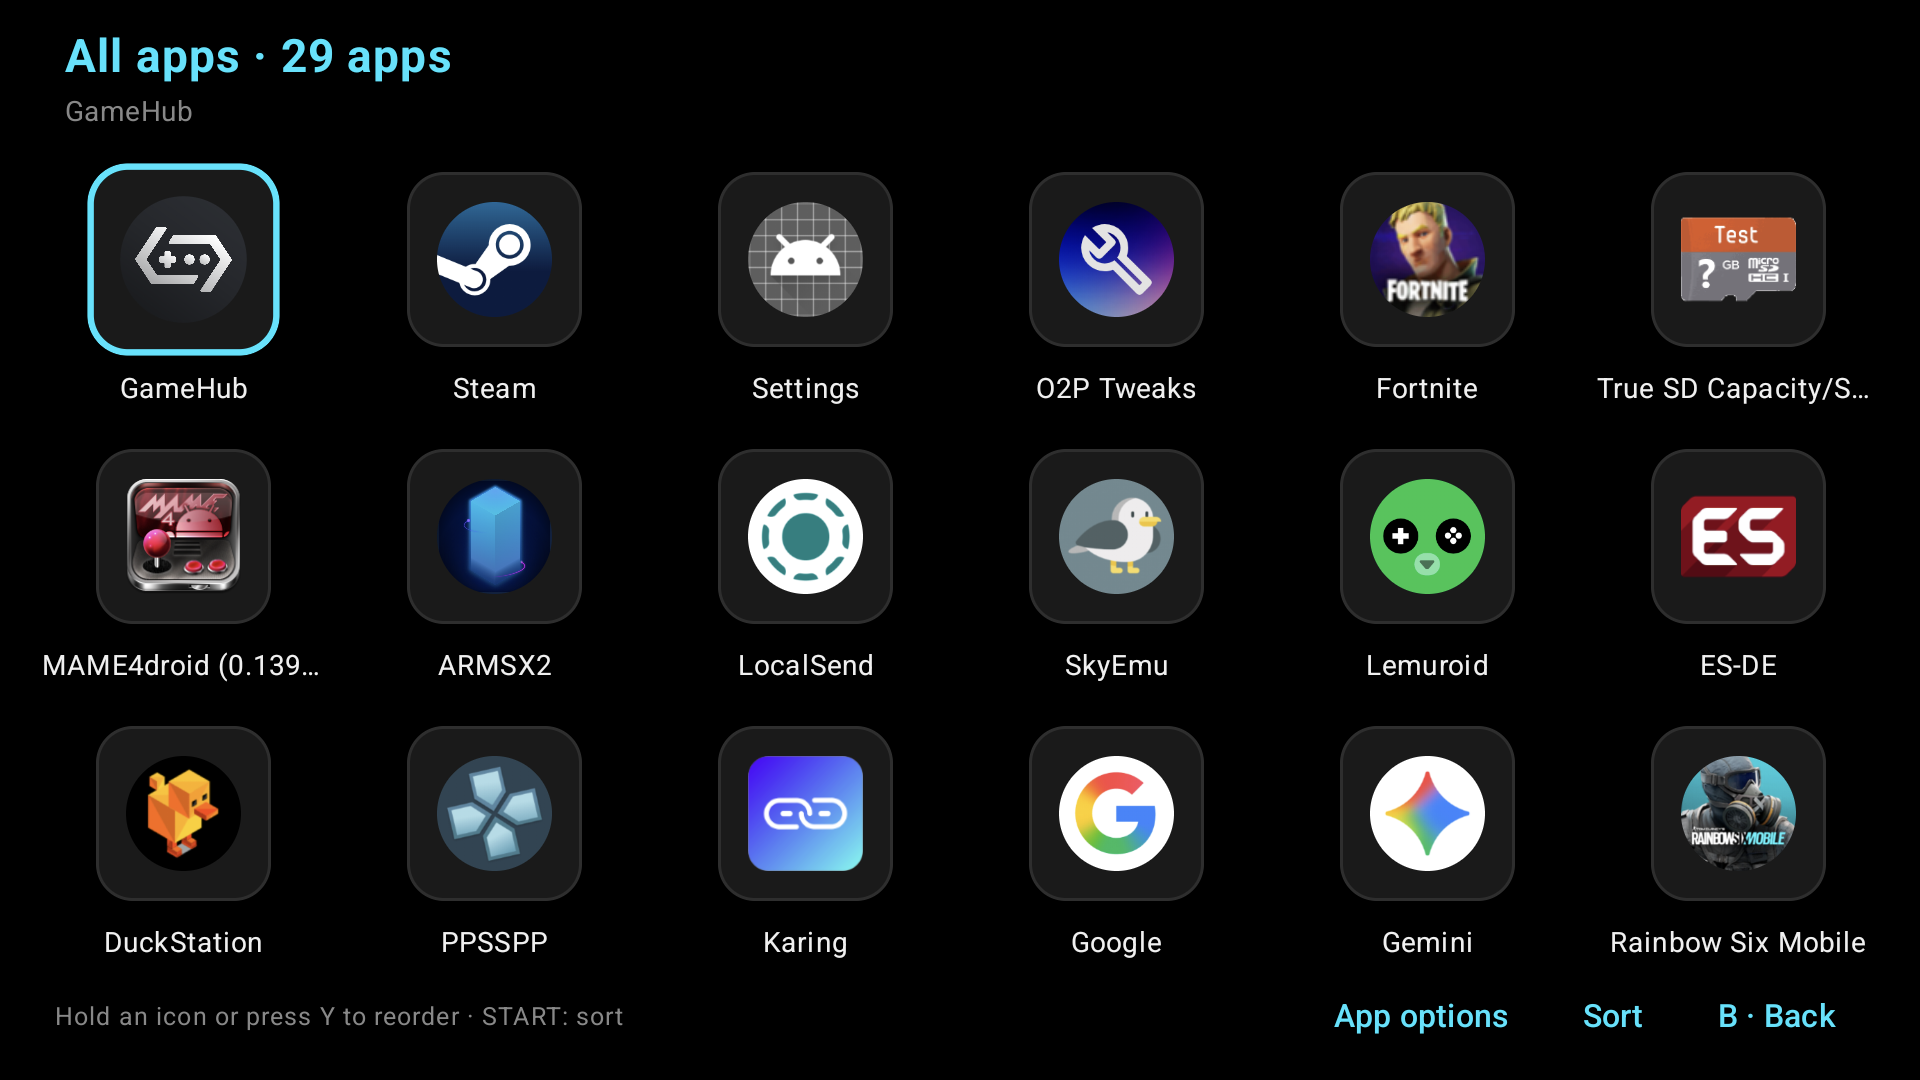
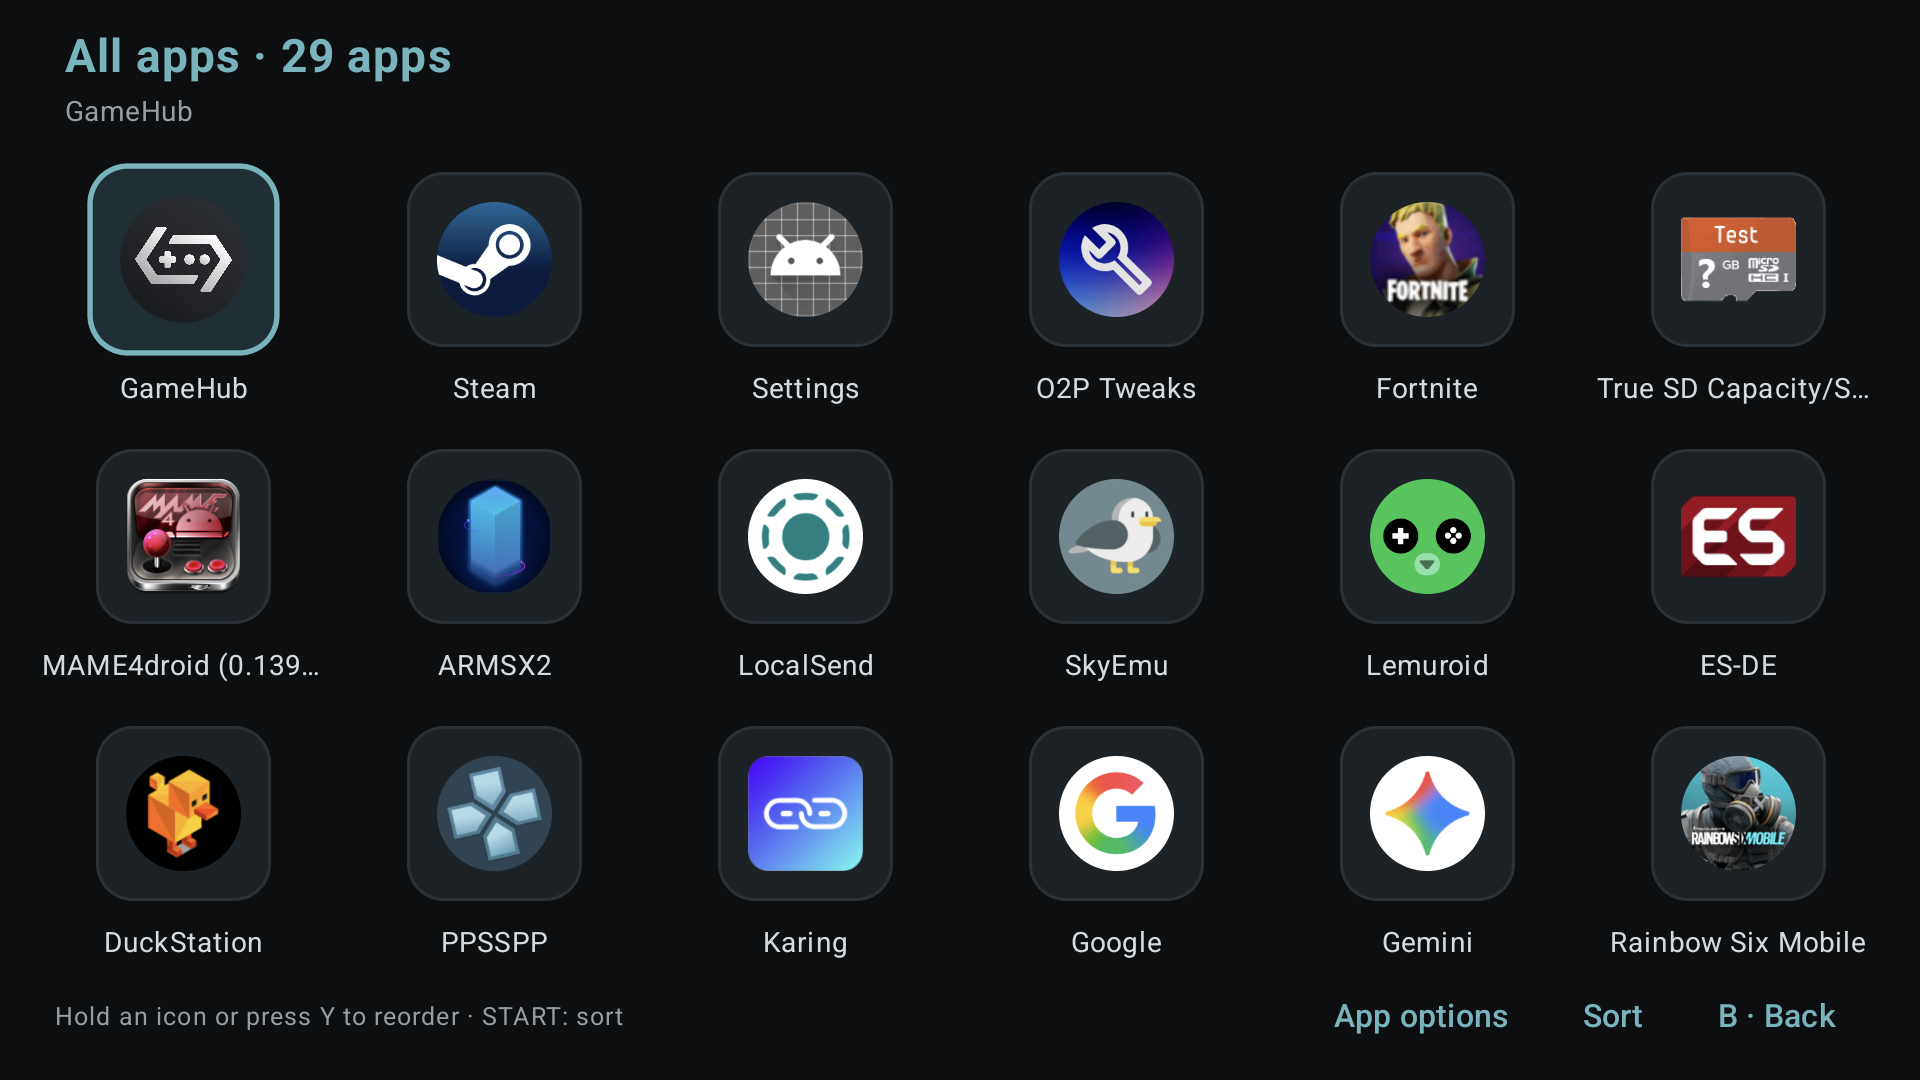
docs: record v0.1.10 installation and refresh English screenshots

diff --git a/docs/releases.md b/docs/releases.md
@@ -143,3 +143,17 @@ tools/android ./gradlew -PreleaseVersion=0.1.1 :app:assembleDebug :app:assembleR
 正式版实测冷启动、从系统设置返回、熄屏唤醒、收起通知面板后，状态栏和导航栏均隐藏；边缘滑动仍可访问系统栏与通知面板。窗口读回同时核对当前焦点、栏可见性和临时显示状态，避免只用一项可见性标志判断系统覆盖层。全屏应用页、B 返回来源分类及设置页打开正常。README 三张英文图片重新从正式版采集并逐张检查，拍摄后恢复 `[zh-Hans]` 语言和 `1.0` 字体大小。
 
 Debug 交互验证前后数据库所有表与偏好文件一致，保留 3 个分类和 47 条应用归属。正式安装与英文截图完成后，数据目录 inode、默认 HOME、禁用应用列表及充电开关与安装前基线一致，TF 卡仍挂载；当前应用进程没有记录崩溃，UI 调试辅助进程已停止，设备回到 Odin Desktop。旧正式 APK 保留在上一版本的本地验收目录，新版本的附件、窗口读回、数据比对和截图保存在 `.android-local/device-analysis/immersive-v019/`。这些短时检查不代替长期运行与所有语言、字体配置的穷尽验收。
+
+## v0.1.10 柔和配色与信息颜色
+
+2026-09-08，[v0.1.10](https://github.com/LeXwDeX/odin3-desktop/releases/tag/v0.1.10) 的[发布工作流](https://github.com/LeXwDeX/odin3-desktop/actions/runs/34190458943)和[对应主分支 CI](https://github.com/LeXwDeX/odin3-desktop/actions/runs/34190182328)均成功，标签与构建提交为 `019ef11412c711825d2c06d5975a4d89754372b7`。
+
+原生界面的背景、卡片、文字和青色焦点改为更柔和的配色，常驻边框使用中性色，选中项通过边框与深色填充区分。性能与充电状态保留绿色、橙色、红色等信息颜色；存储分类的条形图、图例和数值共享相同颜色，内部存储和 TF 卡的空闲部分使用同一灰色。灯光菜单的色块仍代表真实硬件预设颜色。本次没有修改硬件控制、Dashboard 刷新周期或导航行为。
+
+本地 Debug/Release 构建、42 项单元测试、279 个多语言键及架构回归通过，Lint 0 个错误、82 个警告。先安装同版本 Debug 构建，实测 Dashboard、全屏应用页、应用操作菜单和设置页的颜色及文字对比度；操作菜单只打开和关闭，没有执行删除或移动动作。
+
[1 lines of base64/hex data omitted]
+
+正式版 Dashboard 的新配色及两个存储条的空闲颜色已实际查看；“全部应用”的 `[+]` 展开 29 个应用，一屏显示 6 列 × 3 行，Tab、硬件 Dock 和系统栏均隐藏，B 返回来源分类的 `[+]`。灯光与方向设置菜单实际打开，README 的三张英文图片直接来自此次正式版实机截图，逐张检查后原样复制，截图文件哈希与原件一致。
+
+Debug 交互前与正式安装前，数据库所有表记录和偏好文件一致，保留 3 个分类和 47 条应用归属。最终应用数据目录 inode、默认 HOME、禁用应用列表、充电开关与基线一致，TF 卡保持挂载；英文截图完成后恢复 `[zh-Hans]` 和 `1.0` 字体大小，设备停留在中文 Dashboard。当前应用进程未记录崩溃，UI 调试辅助进程已停止。附件、私有数据比对、布局和原始截图保存在本机忽略目录 `.android-local/device-analysis/palette-v0110/`；短时检查不代表长期运行或所有语言、字体配置的穷尽验收。

diff --git a/README.md b/README.md
@@ -1,6 +1,6 @@
 # Odin 3 Desktop
 
-A controller-friendly Android launcher for the **AYN Odin 3**, with an OLED-black interface, app groups, a full-screen app library, and direct access to the handheld's hardware controls.
+A controller-friendly Android launcher for the **AYN Odin 3**, with a soft dark interface, app groups, a full-screen app library, and direct access to the handheld's hardware controls.
 
 [![Latest release](https://img.shields.io/github/v/release/LeXwDeX/odin3-desktop)](https://github.com/LeXwDeX/odin3-desktop/releases/latest)
 [![Android CI](https://github.com/LeXwDeX/odin3-desktop/actions/workflows/android-ci.yml/badge.svg)](https://github.com/LeXwDeX/odin3-desktop/actions/workflows/android-ci.yml)
@@ -81,7 +81,7 @@ Choose from six color presets with touch or the controller. The focused preset i
 
 ### Orientation
 
-**Grip landscape** keeps landscape apps in the normal handheld orientation while allowing apps that explicitly request portrait. **Sensor landscape** releases that preference and follows the app's orientation request and the device sensors. Settings are applied through the firmware and read back; no persistent rotation service is needed.
+**Landscape grip** keeps landscape apps in the normal handheld orientation while allowing apps that explicitly request portrait. **Sensor landscape** releases that preference and follows the app's orientation request and the device sensors. Settings are applied through the firmware and read back; no persistent rotation service is needed.
 
 ![English orientation settings on an Odin 3](docs/screenshots/orientation-en.png)
 
@@ -91,7 +91,7 @@ Android remains responsible for choosing the default home app. If you select ano
 
 Hardware buttons do not require a persistent foreground service. The optional AFK black-screen overlay runs only when explicitly enabled. Double-tap to exit it, or press Power to put the device to sleep; sleeping ends the overlay, notification, and wake lock. Waking the device does not automatically restart AFK mode.
 
-The screenshots above are captured from the English interface of v0.1.7 on a physical Odin 3.
+The screenshots above are captured from the English interface of v0.1.10 on a physical Odin 3.
 
 ## Controller guide
 
@@ -118,7 +118,7 @@ Use **JDK 17**, **Android SDK 35**, and the Gradle Wrapper. The project includes
 git clone https://github.com/LeXwDeX/odin3-desktop.git
 cd odin3-desktop
 python3 tools/setup-android.py
-tools/android ./gradlew -PreleaseVersion=0.1.7 :app:assembleDebug
+tools/android ./gradlew -PreleaseVersion=0.1.10 :app:assembleDebug
 ```
 
 For other environments, configure `JAVA_HOME` and `ANDROID_HOME`, then run the Gradle Wrapper directly. A locally generated debug key may differ from the release key; keep the original signing key when you need an in-place update.
